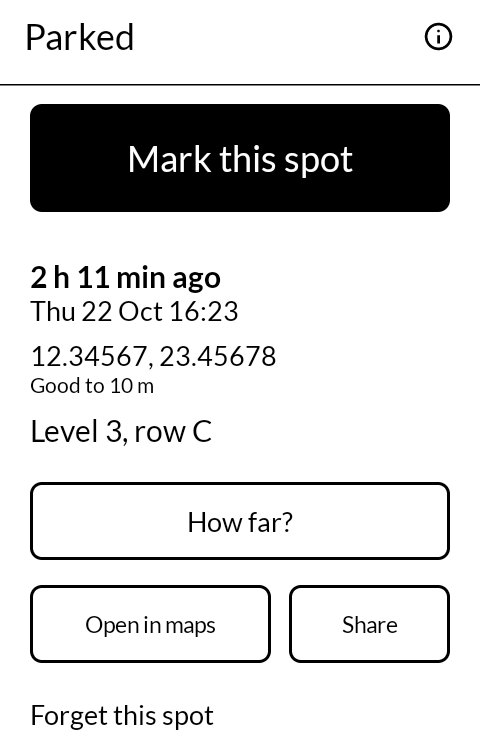
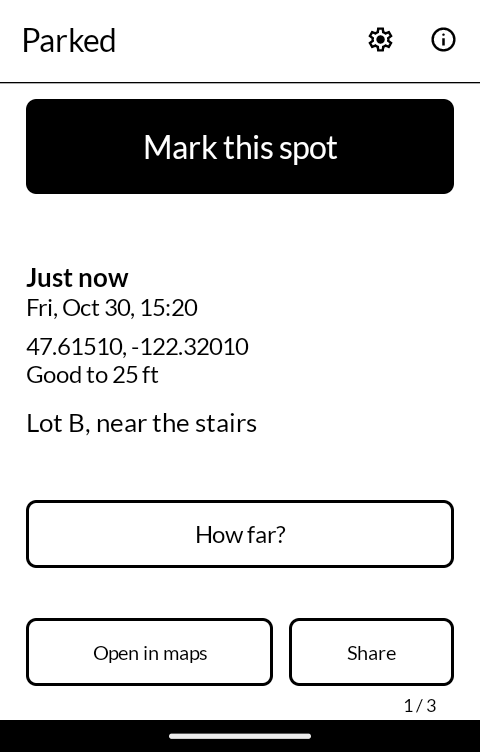
New screenshots

diff --git a/README.md b/README.md
@@ -14,7 +14,7 @@ ships with.
 
 | | | | |
 |---|---|---|---|
-| ![A marked spot: when, where, a note](screenshots/01-marked.png) | ![How far, and which way](screenshots/02-how-far.png) | ![The spots before it](screenshots/03-earlier.png) | ![About](screenshots/04-about.png) |
+| ![A marked spot: when, where, a note](screenshots/01-marked.png) | ![How far, and which way](screenshots/02-how-far.png) | ![Settings](screenshots/03-settings.png) | ![About](screenshots/04-about.png) |
 
 ## How it works
 
